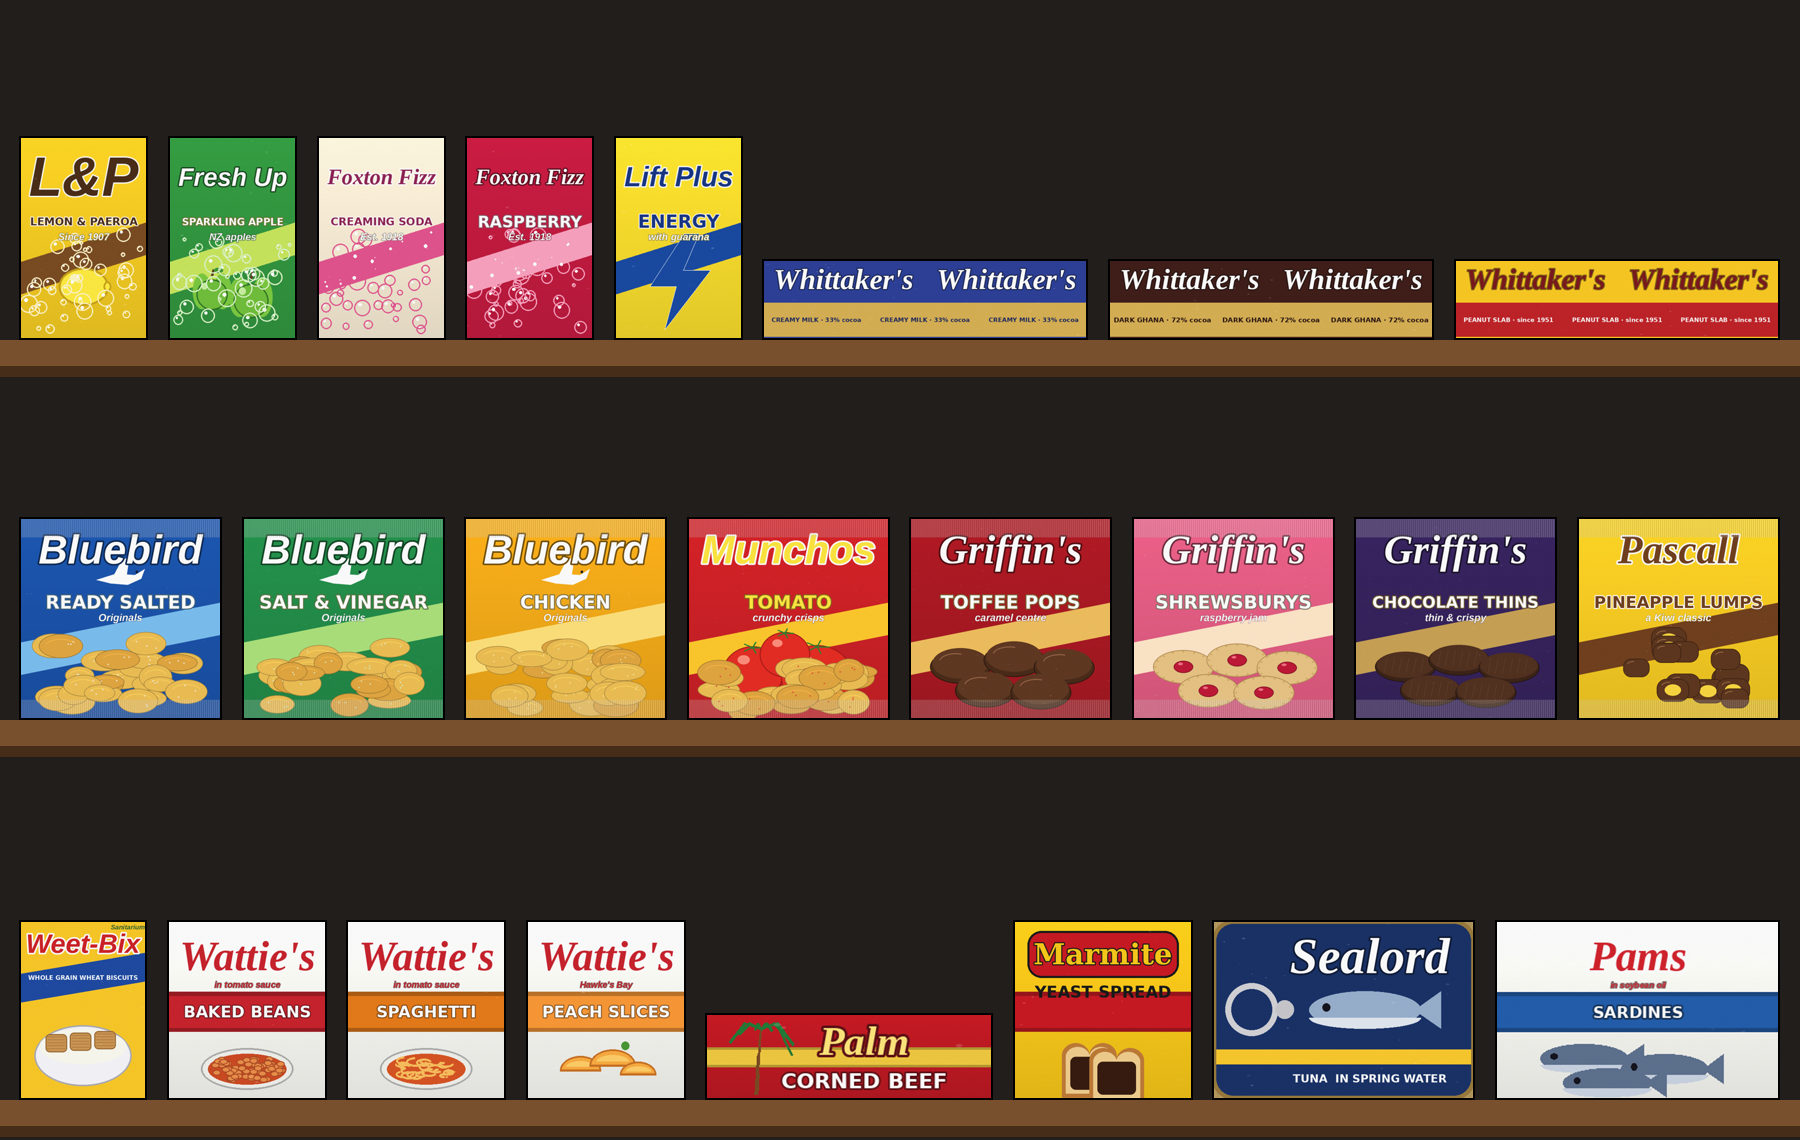
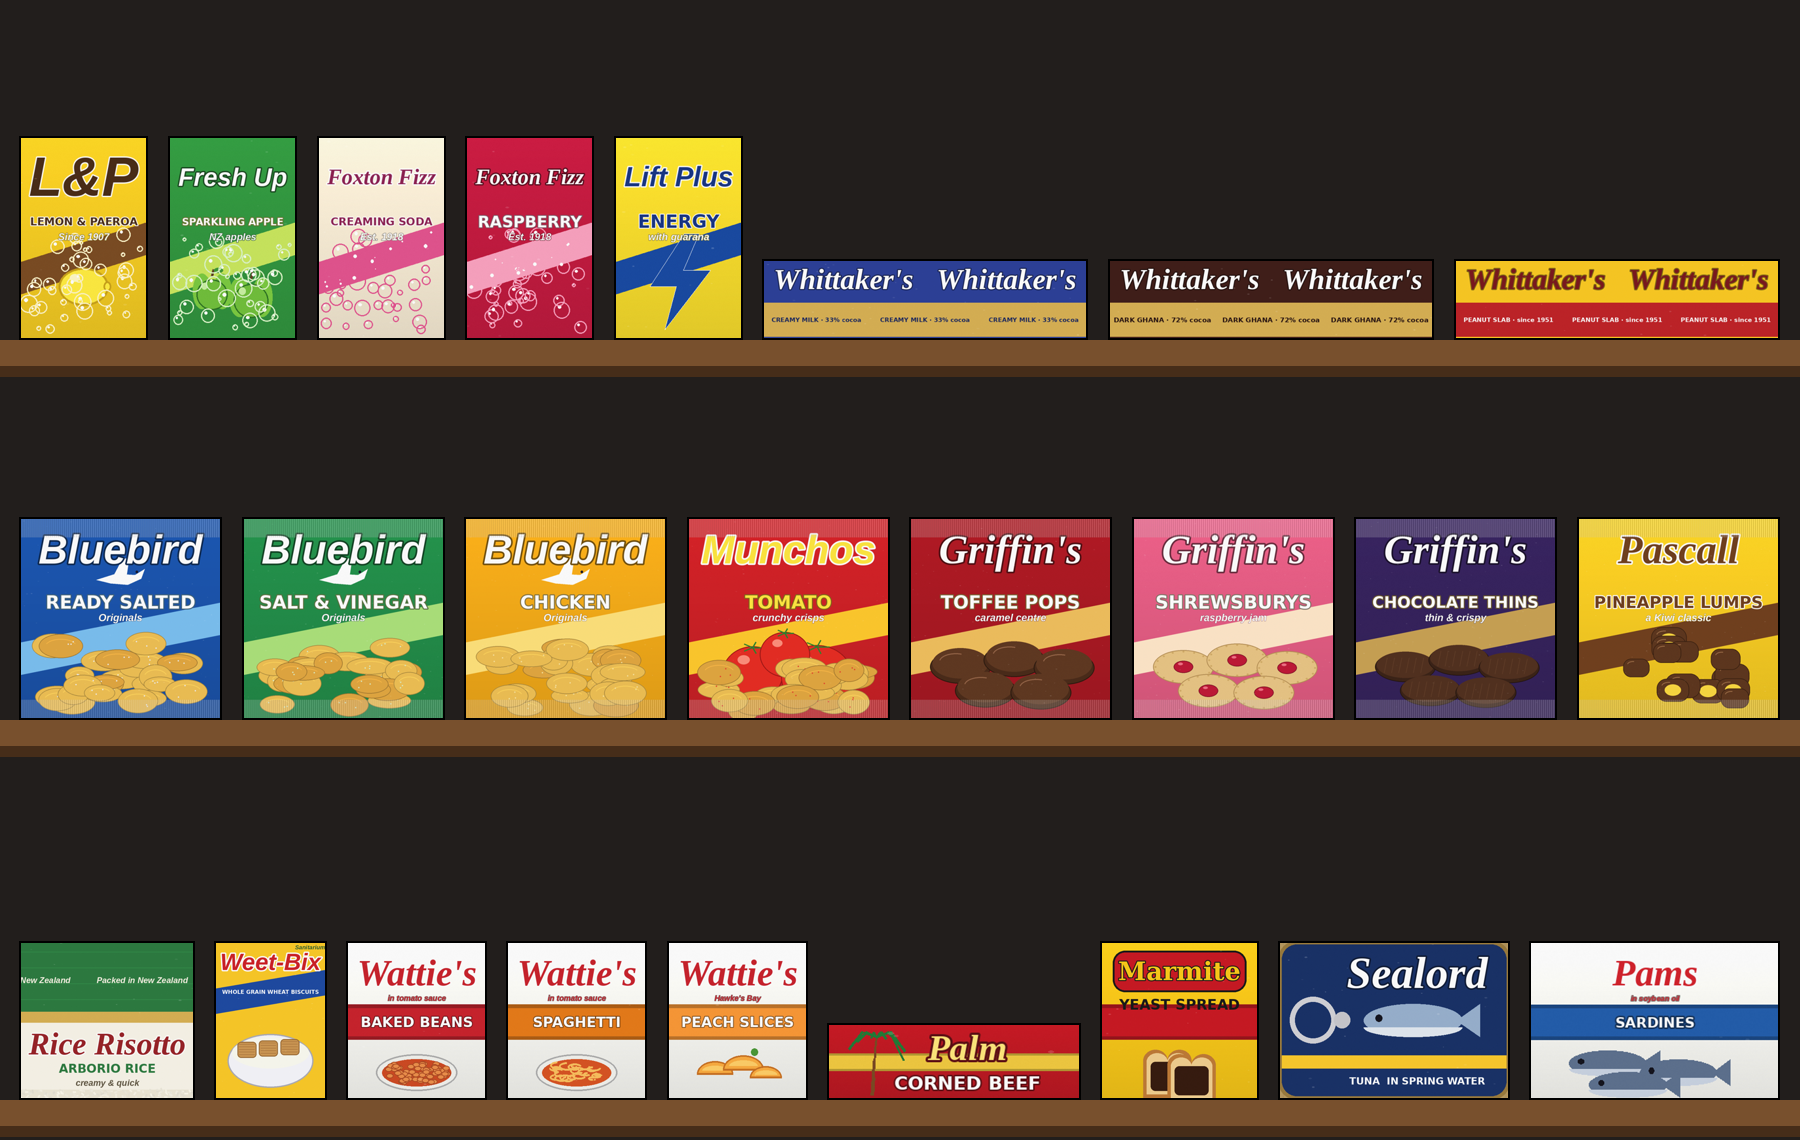
Turn the rice packet into Rice Risotto

Changed region(s): [[0.0, 0.7982, 0.9956, 0.9825]]

diff --git a/tools/nz_food.py b/tools/nz_food.py
@@ -51,7 +51,11 @@ LAYOUTS = {
     "sardines": ((0.0, 0.0, 1.0, 1.0), (1024, 1024), 3),
     "cereal": ((0.0, 0.0, 1.0, 1.0), (1024, 1024), 1),
     "bar": ((0.0, 0.0, 1.0, 1.0), (1024, 1024), 1),
+    "rice": ((0.0, 0.0, 1.0, 1.0), (1024, 1024), 1),
 }
+# Vanilla configs that don't declare the model's retexturable selection: the rice bag's whole model
+# is the "zbytek" selection.
+SELECTIONS = {"rice": "zbytek"}
 # Vanilla chocolate bar textures carry alpha (_ca); the rest are plain colour maps (_co). The bar's UV
 # layout isn't published, so its wrapper is a repeating pattern that reads from any part of the texture.
 SUFFIX = {"bar": "_ca"}
@@ -145,6 +149,11 @@ ITEMS = [
          "Whittaker's Peanut Slab: milk chocolate packed with peanuts.", (15, 12),
          dict(brand="Whittaker's", sub="PEANUT SLAB", tag="since 1951", bg=(250, 200, 30), bg2=(190, 30, 35),
               fg=(120, 20, 25))),
+    Item("risotto", "Aotearoa_RiceRisotto", "Rice", "rice", "Rice Risotto",
+         "Arborio rice for a creamy risotto. Cook it in a pot with water.", (25, 18),
+         dict(brand="Rice Risotto", sub="ARBORIO RICE", tag="creamy & quick", bg=(248, 244, 232),
+              bg2=(40, 120, 60), fg=(150, 30, 35)),
+         usages=["Village", "Town", "Hunting"]),
     Item("weetbix", "Aotearoa_WeetBix", "BoxCerealCrunchin", "cereal", "Sanitarium Weet-Bix",
          "Sanitarium Weet-Bix whole grain wheat biscuits. Three with milk will keep you going.", (23, 18),
          dict(brand="Weet-Bix", sub="WHOLE GRAIN WHEAT BISCUITS", tag="Sanitarium", bg=(250, 200, 35),
@@ -685,7 +694,50 @@ def bar(item: Item, rng) -> Image.Image:
     return im.convert("RGBA")
 
 
-CUSTOM = {"tuna": tuna, "sardines": sardines, "cereal": cereal, "bar": bar}
+def rice(item: Item, rng) -> Image.Image:
+    """Rice bag: the folded ends across the top third, the label band in the middle (front centred
+    at 40% across), and the grains showing along the bottom."""
+    a = item.art
+    w = h = 1024
+    im = Image.new("RGB", (w, h), a["bg"])
+    d = ImageDraw.Draw(im)
+    for k in range(3):
+        x0 = k * w / 3
+        d.rectangle((x0, 0, x0 + w / 3, 0.33 * h), fill=shade(a["bg"], 0.96 - 0.03 * k))
+        d.line((x0 + 0.06 * w, 0.06 * h, x0 + 0.12 * w, 0.26 * h, x0 + 0.21 * w, 0.26 * h, x0 + 0.27 * w, 0.06 * h),
+               fill=shade(a["bg"], 0.82), width=6)
+    d.rectangle((0, 0.33 * h, w, 0.55 * h), fill=a["bg2"])
+    d.rectangle((0, 0.53 * h, w, 0.56 * h), fill=(215, 175, 80))
+    for k in range(4):
+        y = 0.36 * h + k * 0.045 * h
+        d.line((0, y, w, y), fill=shade(a["bg2"], 1.15), width=2)
+    for c in range(3):
+        cx = (c + 0.5) * w / 3
+        text(d, (cx, 0.44 * h), "Packed in New Zealand", "italic", w / 3.6, 0.04 * h, (250, 245, 230))
+    cx = 0.4 * w
+    text(d, (cx, 0.62 * h), a["brand"], "script", 0.5 * w, 0.09 * h, a["fg"], 3, (255, 255, 255))
+    text(d, (cx, 0.69 * h), a["sub"], "sans", 0.4 * w, 0.035 * h, a["bg2"])
+    text(d, (cx, 0.73 * h), a["tag"], "italic", 0.3 * w, 0.025 * h, (90, 80, 60))
+    for side in (0.8,):
+        X, Y, R = side * w, 0.66 * h, 0.08 * w
+        d.ellipse((X - R, Y - R * 0.5, X + R, Y + R * 0.5), fill=(250, 250, 250), outline=(170, 170, 170), width=3)
+        d.ellipse((X - R * 0.8, Y - R * 0.38, X + R * 0.8, Y + R * 0.3), fill=(240, 228, 190))
+        for _ in range(12):
+            gx, gy = X + rng.uniform(-0.6, 0.6) * R, Y + rng.uniform(-0.2, 0.15) * R
+            d.ellipse((gx - 4, gy - 2, gx + 4, gy + 2), fill=(250, 245, 225))
+        d.ellipse((X - R * 0.25, Y - R * 0.15, X + R * 0.05, Y + R * 0.05), fill=(150, 110, 70))
+    d.rectangle((0, 0.75 * h, w, h), fill=(236, 230, 212))
+    for _ in range(2600):
+        gx, gy = rng.uniform(0, w), rng.uniform(0.75 * h, h)
+        L = rng.uniform(7, 11)
+        t = rng.uniform(0, math.pi)
+        dx, dy = math.cos(t) * L / 2, math.sin(t) * L / 2
+        c = rng.randint(225, 252)
+        d.line((gx - dx, gy - dy, gx + dx, gy + dy), fill=(c, c - 4, c - 18), width=5)
+    return wear(im, rng, 6)
+
+
+CUSTOM = {"rice": rice, "tuna": tuna, "sardines": sardines, "cereal": cereal, "bar": bar}
 
 
 def texture(item: Item) -> Image.Image:
@@ -733,6 +785,8 @@ def write_config() -> Path:
 
     def block(cls, base, item, display=True):
         lines = [f"class {cls}: {base}", "{", "\tscope = 2;"]
+        if item.layout in SELECTIONS:
+            lines += [f'\thiddenSelections[] = {{"{SELECTIONS[item.layout]}"}};']
         if display:
             lines += [f'\tdisplayName = "{item.name}";', f'\tdescriptionShort = "{item.desc}";']
         lines += [f'\thiddenSelectionsTextures[] = {{"{TEXTURE.format(item.paa)}"}};', "};"]
@@ -784,8 +838,9 @@ FRONTS = {
     "tin250": ((0.0, 0.758, 0.333, 0.961), 0), "tin100": ((0.0, 0.0, 0.5, 1.0), 0), "bag": ((0.0, 0.0, 1.0, 1.0), 0),
     "tuna": ((0.57, 0.04, 0.98, 0.64), 90), "sardines": ((0.0, 0.51, 0.333, 0.72), 0),
     "cereal": ((0.51, 0.31, 1.0, 1.0), 0), "bar": ((0.0, 0.0, 1.0, 0.25), 0),
+    "rice": ((0.15, 0.33, 0.65, 0.78), 0),
 }
-SHELVES = [("soda", "bar"), ("bag",), ("tin", "tin250", "tin100", "tuna", "sardines", "cereal")]
+SHELVES = [("soda", "bar"), ("bag",), ("tin", "tin250", "tin100", "tuna", "sardines", "cereal", "rice")]
 
 
 def write_showcase(paths: list[Path]) -> Path:

diff --git a/config/food.hpp b/config/food.hpp
@@ -11,6 +11,7 @@ class PeachesCan;
 class PeachesCan_Opened;
 class PorkCan;
 class PorkCan_Opened;
+class Rice;
 class SardinesCan;
 class SardinesCan_Opened;
 class SodaCan_Cola;
@@ -136,6 +137,14 @@ class Aotearoa_Whittakers_PeanutSlab: ZagorkyPeanuts
 	displayName = "Whittaker's Peanut Slab";
 	descriptionShort = "Whittaker's Peanut Slab: milk chocolate packed with peanuts.";
 	hiddenSelectionsTextures[] = {"maps\aotearoa\data\food\whittakers_peanut_ca.paa"};
+};
+class Aotearoa_RiceRisotto: Rice
+{
+	scope = 2;
+	hiddenSelections[] = {"zbytek"};
+	displayName = "Rice Risotto";
+	descriptionShort = "Arborio rice for a creamy risotto. Cook it in a pot with water.";
+	hiddenSelectionsTextures[] = {"maps\aotearoa\data\food\risotto_co.paa"};
 };
 class Aotearoa_WeetBix: BoxCerealCrunchin
 {

diff --git a/tools/economy.py b/tools/economy.py
@@ -68,7 +68,6 @@ NZ_TYPES = {
     # Dairy country, mānuka honey, kaimoana and tramping-hut food.
     "Honey": (30, 22, ["Farm", "Village", "Town"], ["Tier1", "Tier2", "Tier3"]),
     "PowderedMilk": (30, 22, ["Farm", "Town", "Village"], ["Tier1", "Tier2", "Tier3"]),
-    "Rice": (25, 18, ["Village", "Town", "Hunting"], None),
     "Marmalade": (25, 18, ["Village", "Town", "School"], None),
     "Tomato": (25, 18, ["Farm", "Village"], None),
     "TomatoSeedsPack": (35, 25, ["Farm"], None),

diff --git a/README.md b/README.md
@@ -348,7 +348,7 @@ The world inherits lighting and sounds from Chernarus Plus. It sets a southern l
 | `cfgEffectArea.json` | The Whakaari and Waiouru Ammunition Area contaminated zones and their safe positions |
 | `cfggameplay.worldsdata.json` | Settings to merge into `cfggameplay.json`: New Zealand temperatures and the starting gear |
 | `mapgrouppos.xml` | Every town and site building, so loot spawns from the first start |
-| `aotearoa_ce/types.xml`, `cfgeconomycore.aotearoa.xml` | New Zealand loot changes (75 items, plus 24 food and drink items): hunting rifles, shotguns, .22 and .308 ammo on farms; NZDF Steyr AUGs, M4s and FALs at the bases; handguns rare except police Glocks; honey, milk powder and canned fish; New Zealand food and drink (see below); fishing, fencing and tramping gear; gumboots, raincoats, jumpers and beanies |
+| `aotearoa_ce/types.xml`, `cfgeconomycore.aotearoa.xml` | New Zealand loot changes (74 items, plus 25 food and drink items): hunting rifles, shotguns, .22 and .308 ammo on farms; NZDF Steyr AUGs, M4s and FALs at the bases; handguns rare except police Glocks; honey, milk powder and canned fish; New Zealand food and drink (see below); fishing, fencing and tramping gear; gumboots, raincoats, jumpers and beanies |
 | `loot_tiers.json` | The loot tier of every town and site |
 | `env/*_territories.xml` | Animals: red deer and wild pigs in the bush, sheep on pasture and goats in the high country, cattle, pigs and hens at farms, hares on farmland. No wolves, bears, foxes or roe deer. |
 | `cfgweather.xml` | Windy, changeable weather with frequent showers and light fog (the seasons come from the world scripts, see below) |
@@ -375,6 +375,7 @@ The mod retextures vanilla cans, tins and snack packets as Kiwi brands, and the 
 | Griffin's Toffee Pops, Shrewsburys, Chocolate Thins; Pascall Pineapple Lumps | Crackers |
 | Whittaker's Creamy Milk, Dark Ghana, Peanut Slab | the three Zagorky bars |
 | Sanitarium Weet-Bix | Crunchin cereal |
+| Rice Risotto | Rice |
 | Wattie's Baked Beans, Spaghetti, Peach Slices | Baked Beans, Spaghetti, Peaches |
 | Sealord Tuna, Pams Sardines | Tuna, Sardines |
 | Palm Corned Beef | Pork (250 g tin) |

diff --git a/docs/IN_GAME_TEST_CHECKLIST.md b/docs/IN_GAME_TEST_CHECKLIST.md
@@ -79,6 +79,7 @@ Spawn each one with your admin tool by its class name, or find it in loot. For e
 | Whittaker's Dark Ghana | `Aotearoa_Whittakers_DarkGhana` | ZagorkyChocolate |  |
 | Whittaker's Peanut Slab | `Aotearoa_Whittakers_PeanutSlab` | ZagorkyPeanuts |  |
 | Sanitarium Weet-Bix | `Aotearoa_WeetBix` | BoxCerealCrunchin |  |
+| Rice Risotto | `Aotearoa_RiceRisotto` | Rice |  |
 | Wattie's Baked Beans | `Aotearoa_Watties_BakedBeans` | BakedBeansCan | yes |
 | Wattie's Spaghetti | `Aotearoa_Watties_Spaghetti` | SpaghettiCan | yes |
 | Wattie's Peach Slices | `Aotearoa_Watties_Peaches` | PeachesCan | yes |
@@ -93,6 +94,7 @@ Things to look at closely, because their texture layouts are guessed or approxim
 - [ ] **Sealord Tuna:** the label is printed on the lid, with the ring pull at one end. Check the ring sits over the model's pull tab.
 - [ ] **Pams Sardines, Palm Corned Beef and Marmite:** the label should wrap the side of the tin, and the lid should look like plain metal.
 - [ ] **Weet-Bix:** the front of the box should show the bowl and the wordmark.
+- [ ] **Rice Risotto:** vanilla rice doesn't retexture its bag, so check the packet shows the green band and the "Rice Risotto" label rather than the plain vanilla bag or a missing texture.
 
 If a texture is sideways, mirrored or in the wrong place, take a screenshot. For a fix, convert the vanilla texture to PNG with DayZ Tools' ImageToPAA (for example `P:\DZ\gear\food\data\zagorky_milk_ca.paa`) and send it; the labels can then be lined up exactly with the vanilla layout.
 

diff --git a/CHANGELOG.md b/CHANGELOG.md
@@ -2,6 +2,12 @@
 
 Versions follow `MAJOR.MINOR.PATCH`. `VERSION` holds the current one, and `mod/mod.cpp` must match it (the map checks enforce this). To release, add a section here, bump both files, and push a tag `vX.Y.Z`; GitHub builds the release.
 
+## Unreleased
+
+### Changed
+
+- The rice packet is now Rice Risotto (`Aotearoa_RiceRisotto`), with arborio rice on the label. It replaces vanilla rice in the loot
+
 ## 0.6.3 - 2026-11-26
 
 ### Added
